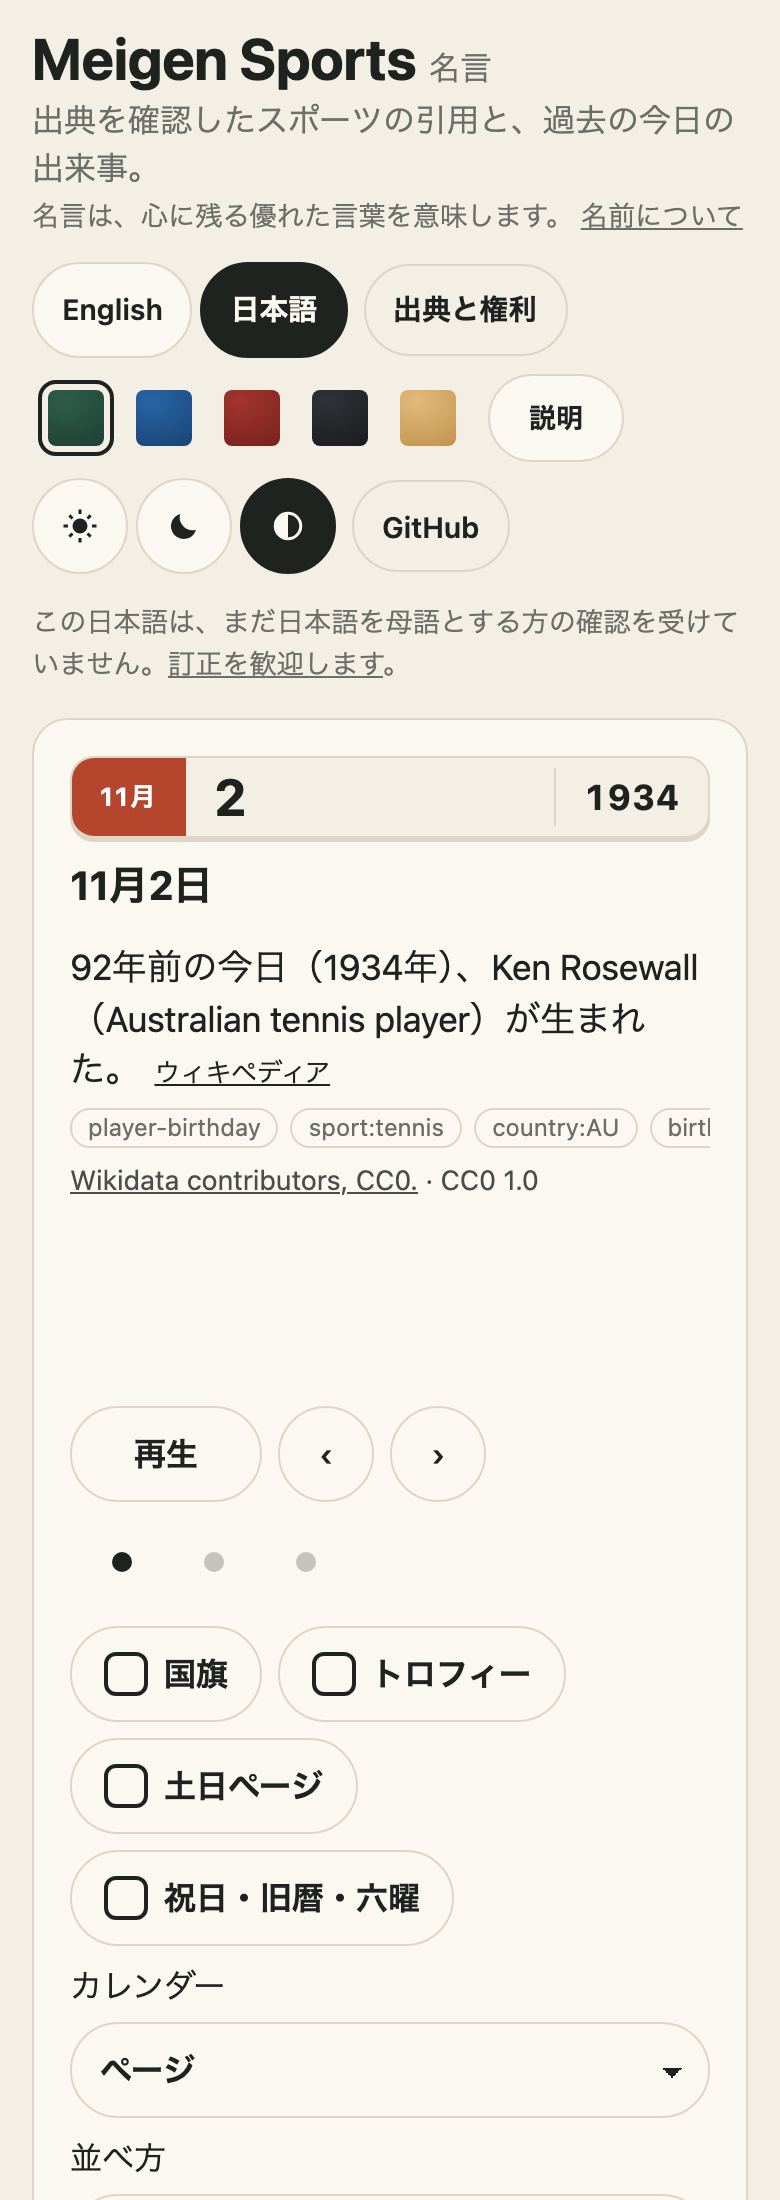
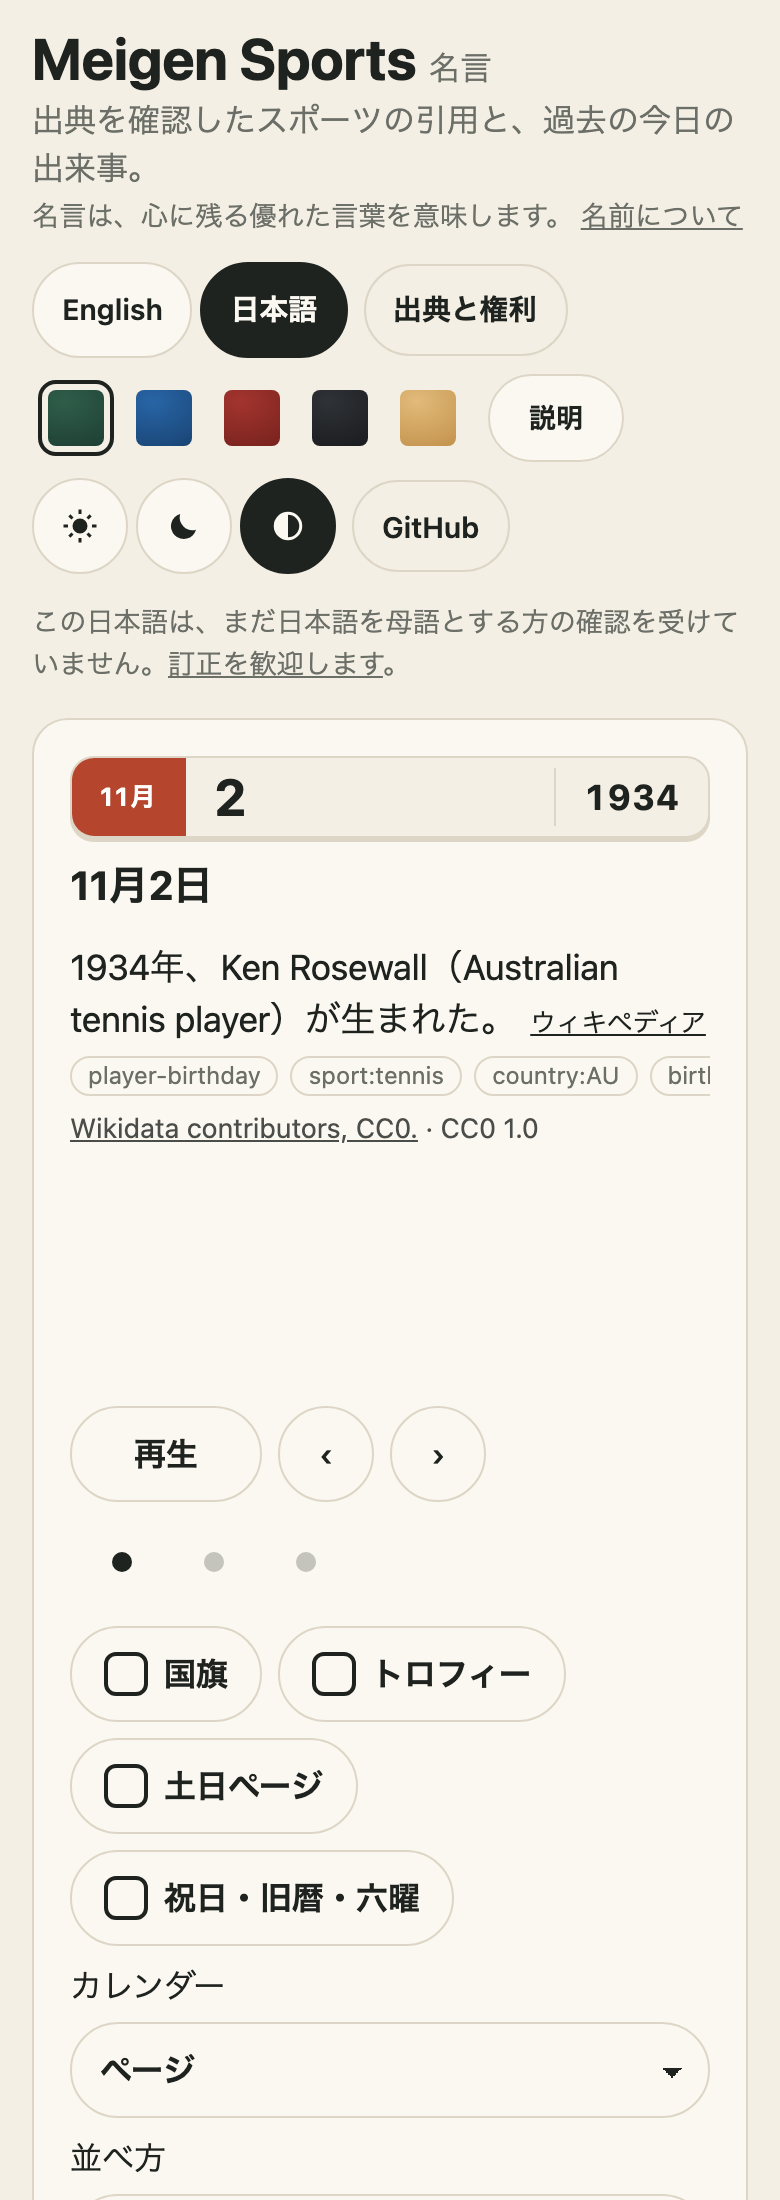
chore(release): 0.20.2
Two corrected games left out, Kia Forum before 2021 left out.

Changed region(s): [[0.0923, 0.4327, 0.9231, 0.5564]]

diff --git a/src/version.ts b/src/version.ts
@@ -1,2 +1,2 @@
-export const VERSION = "0.20.1";
+export const VERSION = "0.20.2";
 export const SCHEMA_VERSION = 1;

diff --git a/CHANGELOG.md b/CHANGELOG.md
@@ -4,6 +4,14 @@ Changes to the package are recorded here. Dates use ISO 8601.
 
 ## [Unreleased]
 
+## [0.20.2] - 2026-11-02
+
+- Fix: two games the SPX database has corrected since the extract was made are no longer published with the old score: the Bucks and the Hawks on 19 November 1968 (the database has Milwaukee 119 at home, Atlanta 98; the extract had Atlanta 89 at home) and the Bullets and the Rockets on 12 March 1975 (115, not 117). They are left out until a fresh DS1 extract carries the corrected game (`data-sources/game-corrections.json`). 104,833 facts.
+- Checked, no change: the other seven game facts the site could not match to the database are right. Each is the second game of a doubleheader in Retrosheet's game logs, which the SPX database lacks (it holds the first game, or the game on another day): Twins 12, White Sox 0 on 6 July 2007; Phillies 16, Braves 4 on 2 September 2006; Yankees 17, Devil Rays 5 on 21 July 2007; Mets 17, Marlins 3 on 8 July 2006; Braves 14, Red Sox 0 on 19 May 2007; Mets 12, Giants 1 on 5 June 2005. The seventh, the Phillies' 4–3 win over the Rays on 27 October 2008, is World Series game 5, which Retrosheet dates 27 October (the day it was started; it was suspended and finished on the 29th, where the SPX database has it).
+- Fix: the fact of the Celtics' 1968 Finals (and seven other NBA Finals from 1969 to 1991) no longer says "at Kia Forum": the building took that name in 2021 and the database has no dated history for it, so before 2021 the building and its city are left out of the sentence (`NAME_SINCE`). The NHL All-Star Game of 2000 and the NBA All-Star Game of 2016 at the Air Canada Centre are right and stay.
+- Checked, no change: the early-league identities (franchise events) of 1871 to 1875 say "National Association" since 0.20.1; those of 1876 and later in the National League and American League are MLB, as in the archive. NHL retirements: 177 of the database's 184 with a date are facts; the rest are three ceremonies not yet held (Bergeron, Getzlaf, Kopitar) and the four numbers that honour no player (fans twice, the victims of 1 October 2017, an owner).
+- Tests: `test/dated-names.test.ts` (the corrected games, a doubleheader game and the suspended game stay, Kia Forum), `pipeline/test_convert_extract.py`.
+
 ## [0.20.1] - 2026-11-02
 
 - Data: 142 more NHL retired numbers (397 in all; was 255). They were left out because the games gave no name for those clubs; the database's dated club names (`extract_dated_names.json`) name them as they were called that day: "On February 3, 2009, the New York Rangers retired Adam Graves's No. 9." (Gordie Howe's No. 9 by the Red Wings in 1972, Bobby Orr's No. 4 by the Bruins in 1979, the Toronto Maple Leafs' 2016 ceremony of 17, and so on.) Left out of the 146 on purpose, because they honour no player and "retired X's No." would say he wore it: the fans (Minnesota Wild 2000, Seattle Kraken 2021), the victims of 1 October 2017 (Vegas Golden Knights) and the owner Wayne Huizenga (Florida Panthers); `NOT_A_PLAYER` in `pipeline/convert_extract.py` lists them.

diff --git a/docs/status.md b/docs/status.md
@@ -1,6 +1,6 @@
 # Status of meigen-sports, 2026-11-02
 
-Version 0.20.1 on `main`. The work of ticket cmvfh0kqd0000i90665rmo7sw (SPX-610) and the tickets that followed it is finished in this repository: what is left is elsewhere, and is listed at the end. Tags v0.15.1 to v0.19.1 are the coordinating session's to push (v0.12.0, v0.14.4 and v0.14.5 were also never tagged). `pnpm check` is green (272 tests), and so are `pnpm test:readme` and `pnpm test:demo`.
+Version 0.20.2 on `main`. The work of ticket cmvfh0kqd0000i90665rmo7sw (SPX-610) and the tickets that followed it is finished in this repository: what is left is elsewhere, and is listed at the end. Tags v0.15.1 to v0.19.1 are the coordinating session's to push (v0.12.0, v0.14.4 and v0.14.5 were also never tagged). `pnpm check` is green (272 tests), and so are `pnpm test:readme` and `pnpm test:demo`.
 
 ## What changed since the 0.15.0 audit
 
@@ -17,6 +17,7 @@ Version 0.20.1 on `main`. The work of ticket cmvfh0kqd0000i90665rmo7sw (SPX-610)
 | 0.20.0 | The calendar icons and Japanese calendar functions come from koyomi-calendars. |
 | 0.19.3 | A retired number names the club of its day, a final or All-Star Game the building of its year, and a game of the National Association, American Association, Union Association, Players' League or Federal League says its own league, not MLB (`pipeline/extract_dated_names.py`). |
 | 0.20.1 | 142 more NHL retirements (397 retired numbers), the early leagues named on a club's identity, the demo's league menu in full names, and a rebuild that stops without a fresh `extract_dated_names.json`. |
+| 0.20.2 | Two games the database has corrected are left out until a fresh extract; eight finals no longer say "Kia Forum" before 2021. |
 
 "One wording" (the Python converter's own sentences) was already finished in 0.6.0: `test/captions.test.ts` holds every stored sentence to the library's templates. The 0.4.0 audit's other open items are done or have a ticket below.
 
